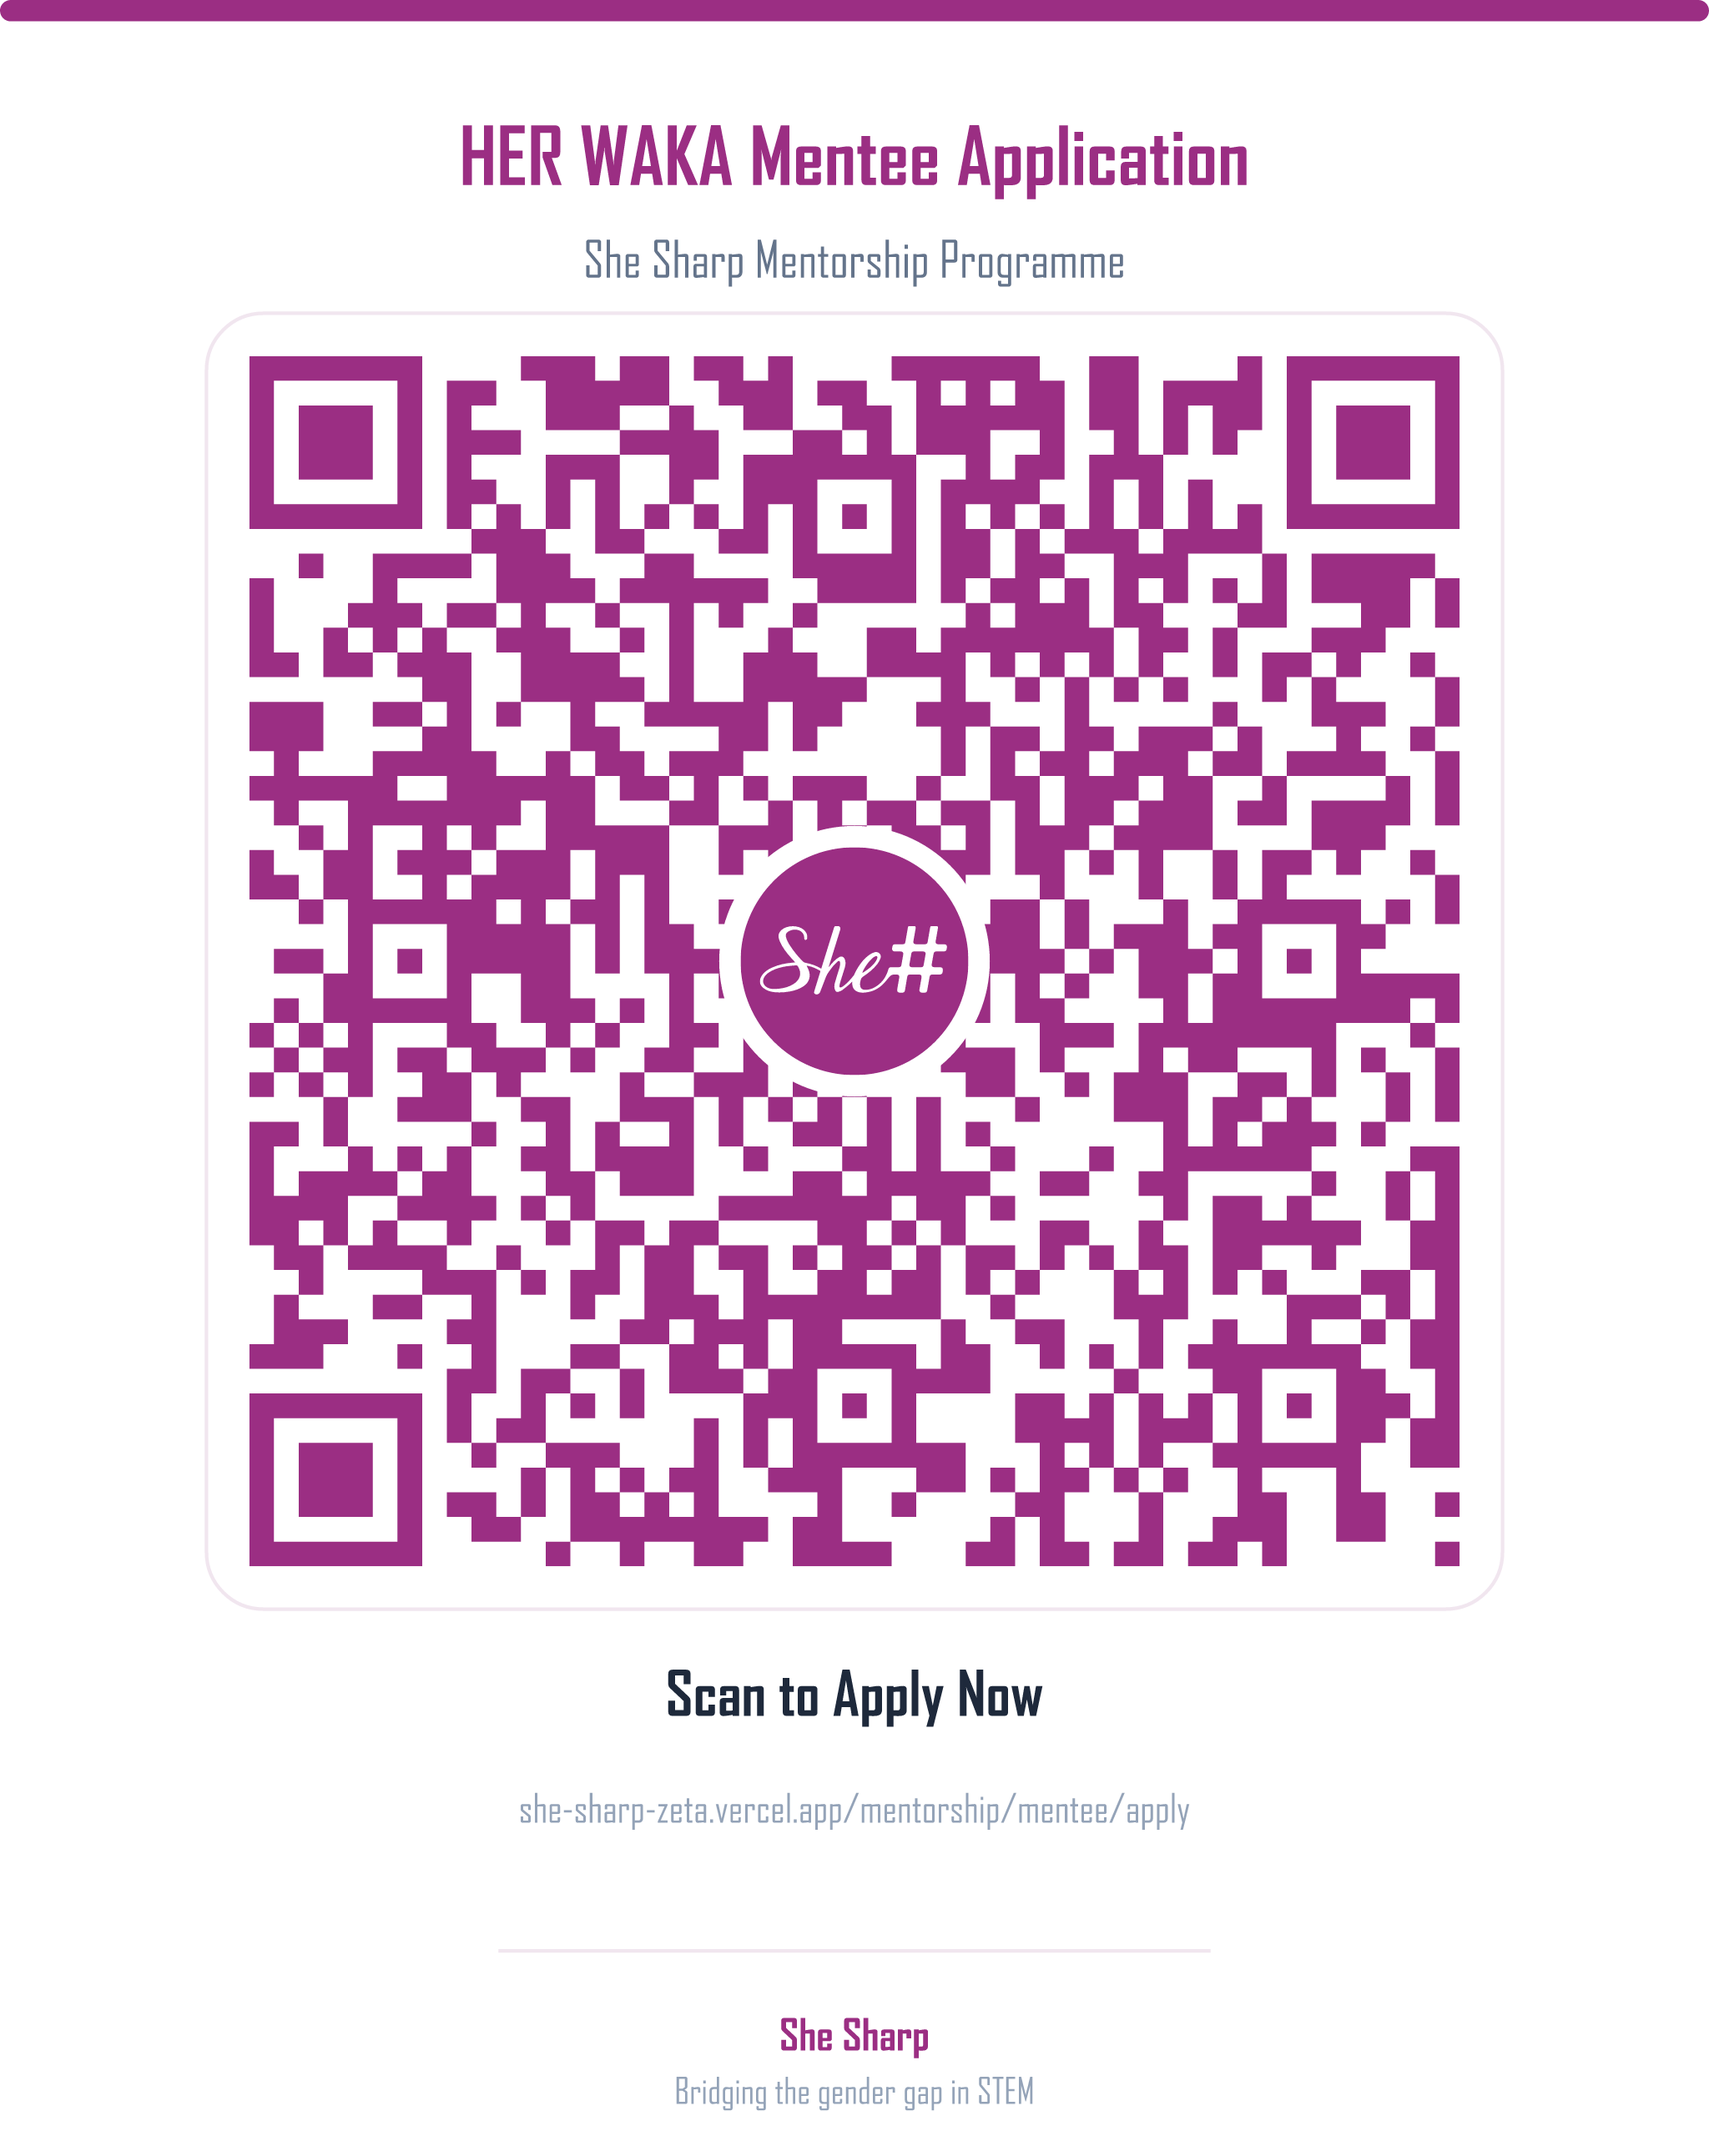
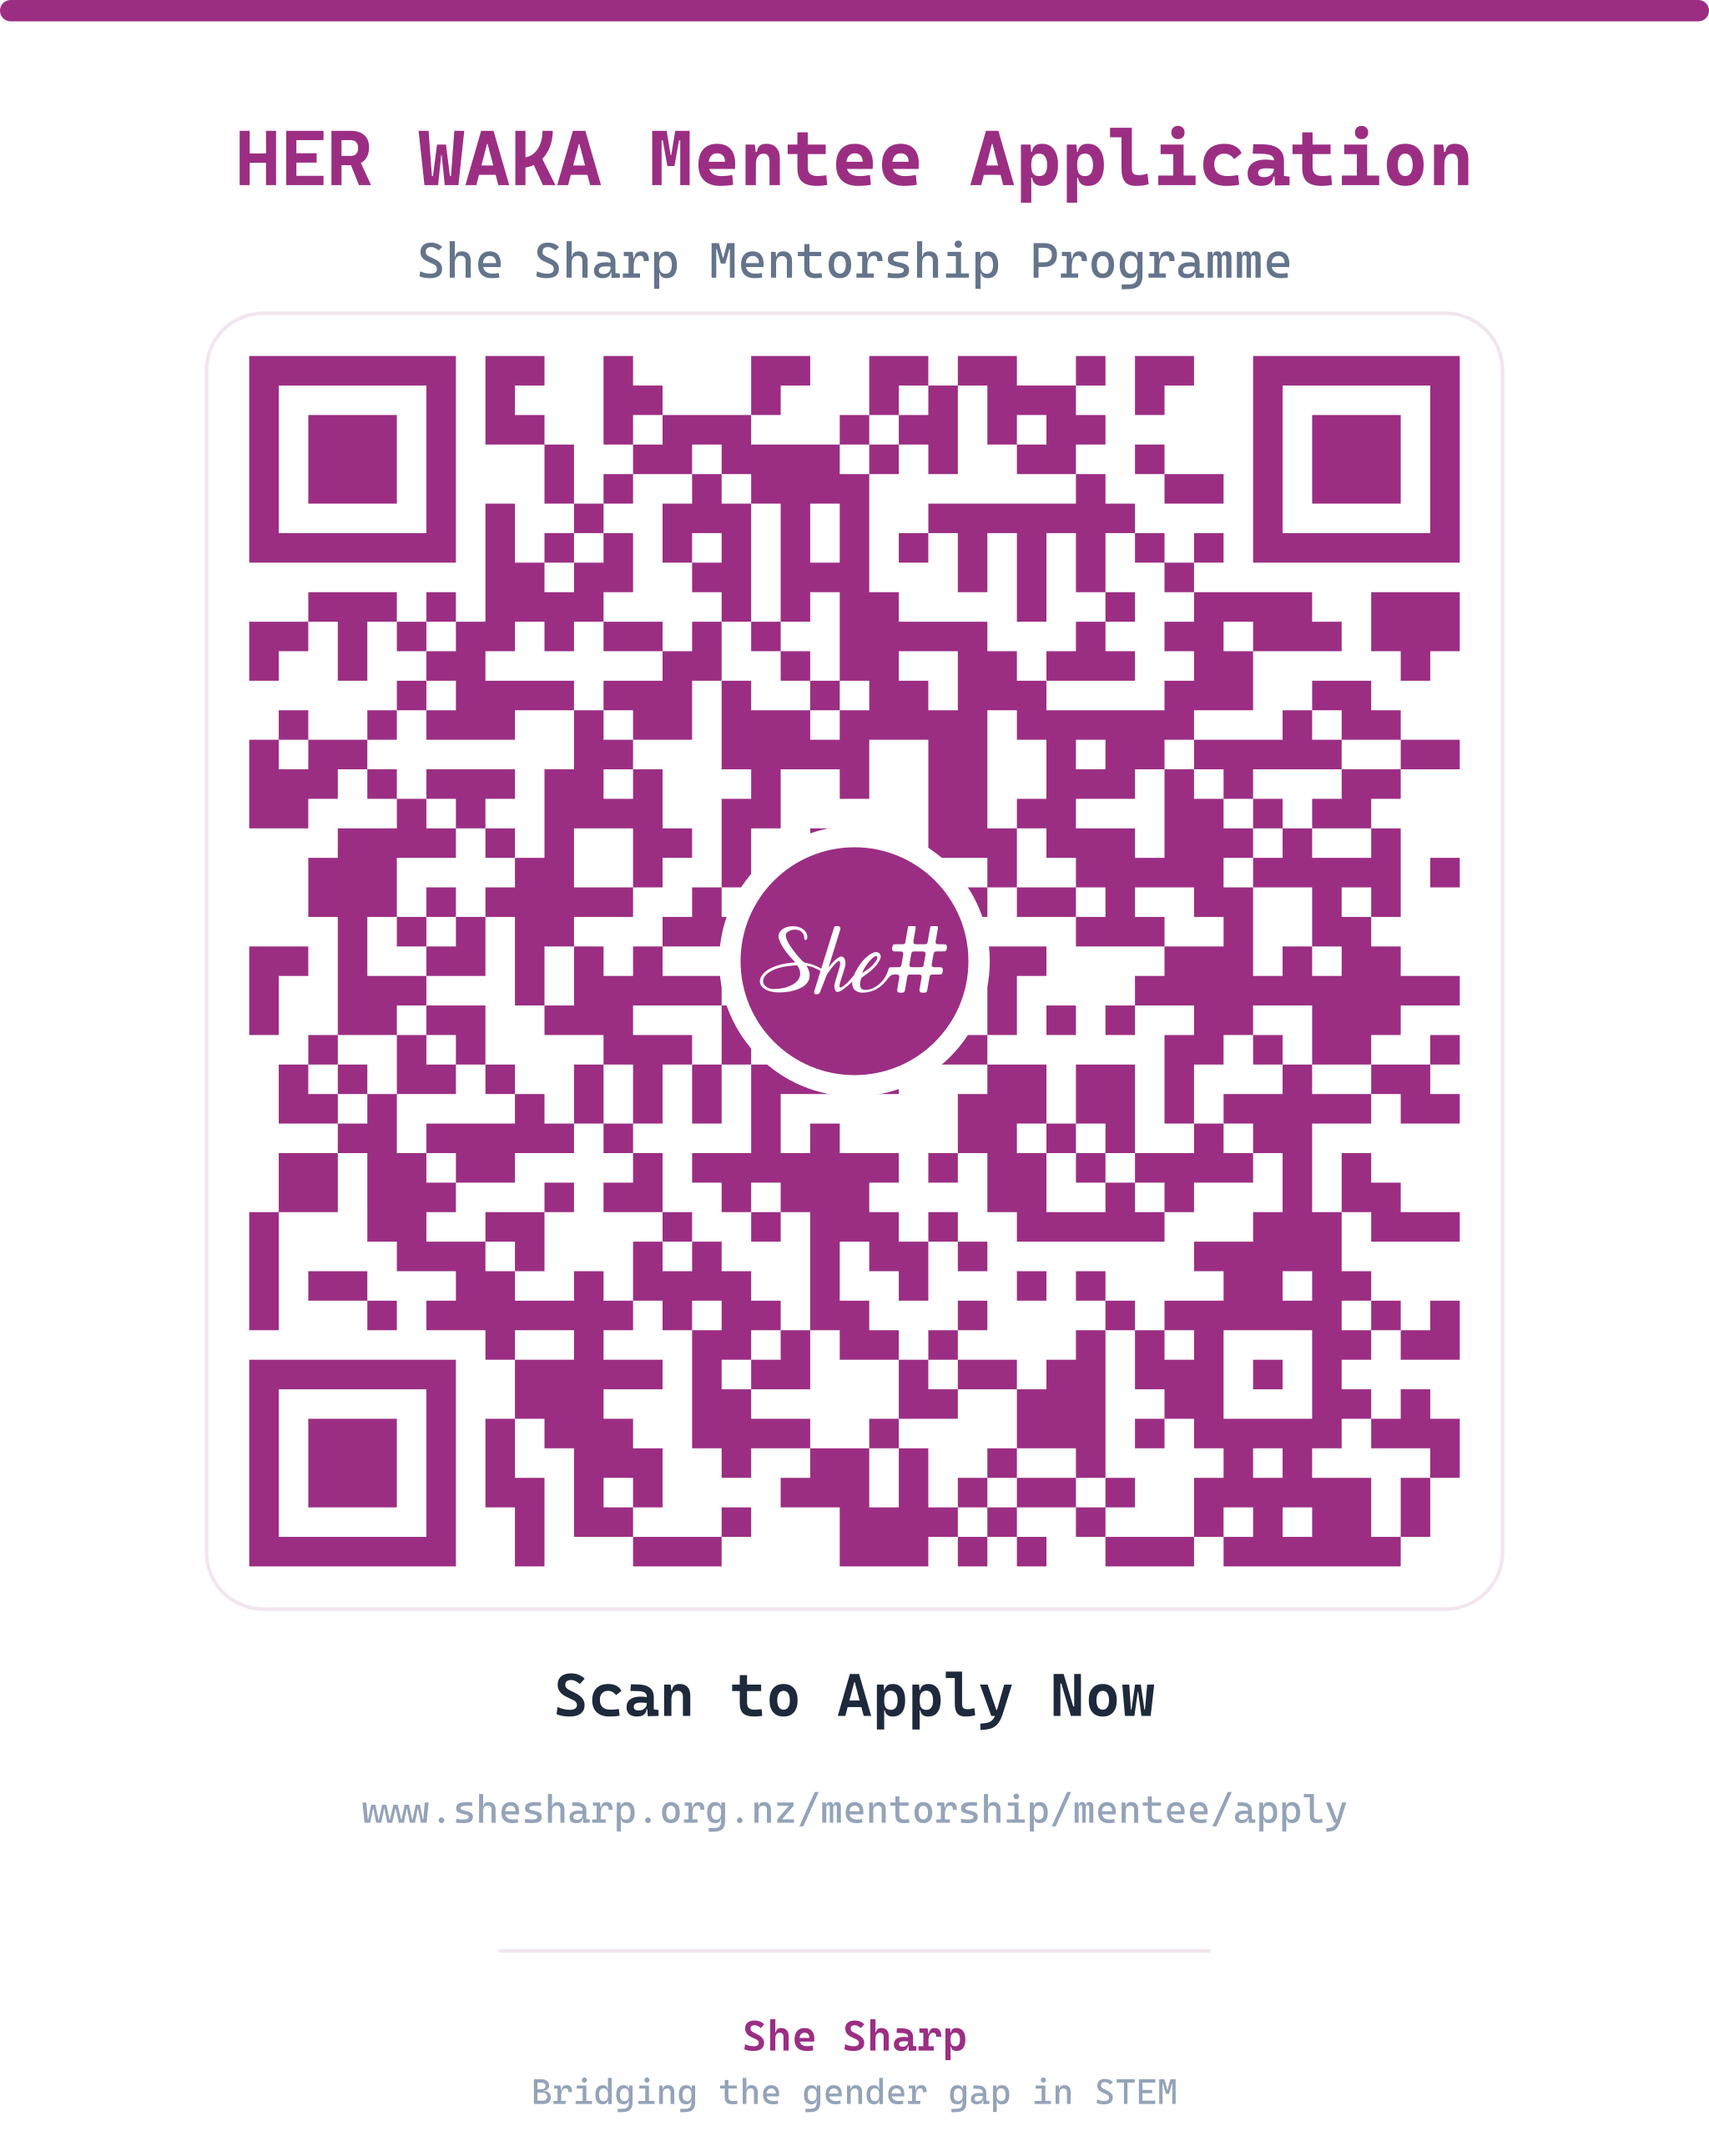
chore(domain): migrate hardcoded URLs to www.shesharp.org.nz
The production deployment moved from the Vercel default domain
(she-sharp-zeta.vercel.app) to the official domain www.shesharp.org.nz.
Update all repo-side references:

- app/layout.tsx: metadataBase + openGraph.url (SEO canonical & OG cards)
- README.md: live-site links
- docs/showcase/showcase.scenario.json: showcase target URL
- public/qr-her-waka-apply.svg/.png: regenerate HER WAKA apply QR code
  encoding the new domain (vector + 2048x2560 print PNG)

Runtime config (Vercel BASE_URL/AUTH_URL/NEXTAUTH_URL, Stripe live
webhook, GitHub OAuth callback) updated out-of-band.

diff --git a/app/layout.tsx b/app/layout.tsx
@@ -11,7 +11,7 @@ import { Providers } from './providers';
 export const dynamic = 'force-dynamic';
 
 export const metadata: Metadata = {
-  metadataBase: new URL('https://she-sharp-zeta.vercel.app'),
+  metadataBase: new URL('https://www.shesharp.org.nz'),
   title: 'She Sharp - Connecting Women in Technology',
   description: 'She Sharp is on a mission to bridge the gender gap in STEM, one woman at a time. Through events, networking, and career development opportunities.',
   keywords: ['STEM', 'women', 'technology', 'mentorship', 'New Zealand', 'She Sharp'],
@@ -25,7 +25,7 @@ export const metadata: Metadata = {
     description: 'She Sharp is on a mission to bridge the gender gap in STEM, one woman at a time. Through events, networking, and career development opportunities.',
     type: 'website',
     locale: 'en_NZ',
-    url: 'https://she-sharp-zeta.vercel.app',
+    url: 'https://www.shesharp.org.nz',
     siteName: 'She Sharp',
     images: [
       {

diff --git a/README.md b/README.md
@@ -8,11 +8,11 @@ An innovative non-profit platform that leverages cutting-edge technology to empo
 Supports mentorship programs, networking events, and career development with AI-powered assistance.<br/>
 **FREE** community platform for women in technology.
 
-[Official Site](https://she-sharp-zeta.vercel.app/) · [Events](#events) · [Mentorship](#mentorship) · [Documentation](#documentation) · [Contact](#contact)
+[Official Site](https://www.shesharp.org.nz/) · [Events](#events) · [Mentorship](#mentorship) · [Documentation](#documentation) · [Contact](#contact)
 
 <br/>
 
-[![🚀 Visit Live Site 🚀](https://gradient-svg-generator.vercel.app/api/svg?text=%F0%9F%9A%80Visit%20Live%20Site%F0%9F%9A%80&color=ffffff&height=60&gradientType=radial&duration=6s&color0=9b2e83&template=pride-rainbow)](https://she-sharp-zeta.vercel.app/)
+[![🚀 Visit Live Site 🚀](https://gradient-svg-generator.vercel.app/api/svg?text=%F0%9F%9A%80Visit%20Live%20Site%F0%9F%9A%80&color=ffffff&height=60&gradientType=radial&duration=6s&color0=9b2e83&template=pride-rainbow)](https://www.shesharp.org.nz/)
 
 <br/>
 
@@ -40,7 +40,7 @@ Supports mentorship programs, networking events, and career development with AI-
 <!-- SHOWCASE:START — generated by readme-showcase; edit docs/showcase/showcase.scenario.json and re-run instead of hand-editing -->
 ## 🌐 See it live
 
-<a href="https://she-sharp-zeta.vercel.app/">
+<a href="https://www.shesharp.org.nz/">
   <img src="docs/showcase/hero.webp" alt="She Sharp landing — 'CONNECTING WOMEN IN TECHNOLOGY' hero with mountain backdrop, She# logo, 'Join Membership' CTA, and real event photography" width="100%">
 </a>
 
@@ -118,7 +118,7 @@ She Sharp is a comprehensive mentorship platform dedicated to bridging the gende
 > - OpenAI GPT API key required for AI features
 > - All payment features have been removed for security reasons
 
-| [![Demo](https://img.shields.io/badge/TRY%20DEMO-ONLINE-9b2e83?labelColor=black&logo=vercel&style=for-the-badge)](https://she-sharp-zeta.vercel.app/) | Experience our platform without installation! |
+| [![Demo](https://img.shields.io/badge/TRY%20DEMO-ONLINE-9b2e83?labelColor=black&logo=vercel&style=for-the-badge)](https://www.shesharp.org.nz/) | Experience our platform without installation! |
 | :--- | :--- |
 | [![GitHub](https://img.shields.io/badge/GITHUB-REPO-181717?labelColor=black&logo=github&style=for-the-badge)](https://github.com/NZ-SheSharp/she-sharp) | Explore the source code and contribute! |
 
@@ -1441,7 +1441,7 @@ This project is licensed under the MIT License - see the [LICENSE](LICENSE) file
 
 ### Organization Contact
 
-- **Website**: [https://she-sharp-zeta.vercel.app/](https://she-sharp-zeta.vercel.app/)
+- **Website**: [https://www.shesharp.org.nz/](https://www.shesharp.org.nz/)
 - **Repository**: [https://github.com/NZ-SheSharp/she-sharp](https://github.com/NZ-SheSharp/she-sharp)
 - **Email**: info@shesharp.org
 - **LinkedIn**: [She Sharp LinkedIn](https://linkedin.com/company/shesharp)
@@ -1668,7 +1668,7 @@ A:
 
 <br/>
 
-<a href="https://she-sharp-zeta.vercel.app/">Live Site</a>
+<a href="https://www.shesharp.org.nz/">Live Site</a>
 ·
 <a href="https://github.com/NZ-SheSharp/she-sharp">GitHub</a>
 ·
